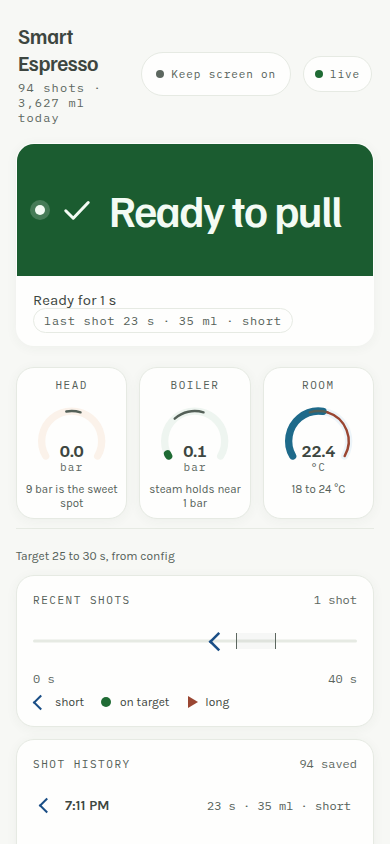
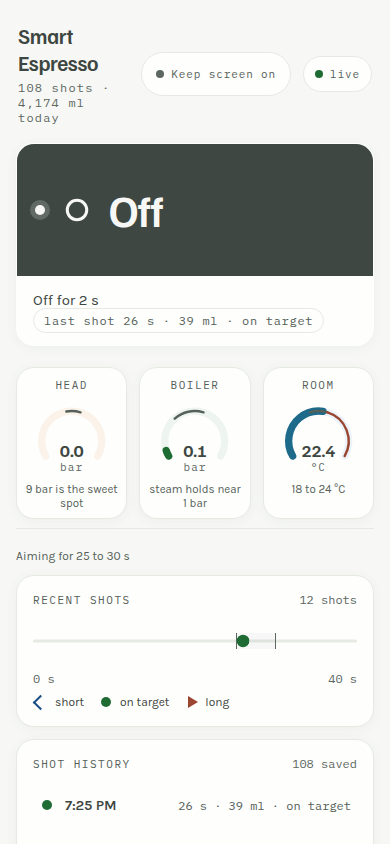
fix: match the shot window label to the live hint
The line under the dials now says Aiming for 25 to 30 s, the same words as the timer hint.

diff --git a/smart_espresso/web/static/dashboard_logic.js b/smart_espresso/web/static/dashboard_logic.js
@@ -320,7 +320,7 @@
   }
 
   function targetLabel(low, high) {
-    return "Target " + low + " to " + high + " s, from config";
+    return "Aiming for " + low + " to " + high + " s";
   }
 
   function nearestTickIndex(centers, x) {

diff --git a/smart_espresso/test/test_dashboard_logic.py b/smart_espresso/test/test_dashboard_logic.py
@@ -356,7 +356,7 @@ class TestSensorLayout:
             ' ["Boiler", "Room"])'
         )
         assert missing == [{"name": "Head", "key": "ADC_TYPE"}]
-        assert call("logic.targetLabel(25, 30)") == "Target 25 to 30 s, from config"
+        assert call("logic.targetLabel(25, 30)") == "Aiming for 25 to 30 s"
 
     def test_the_shot_hint_follows_the_configured_window(self):
         text = call(
